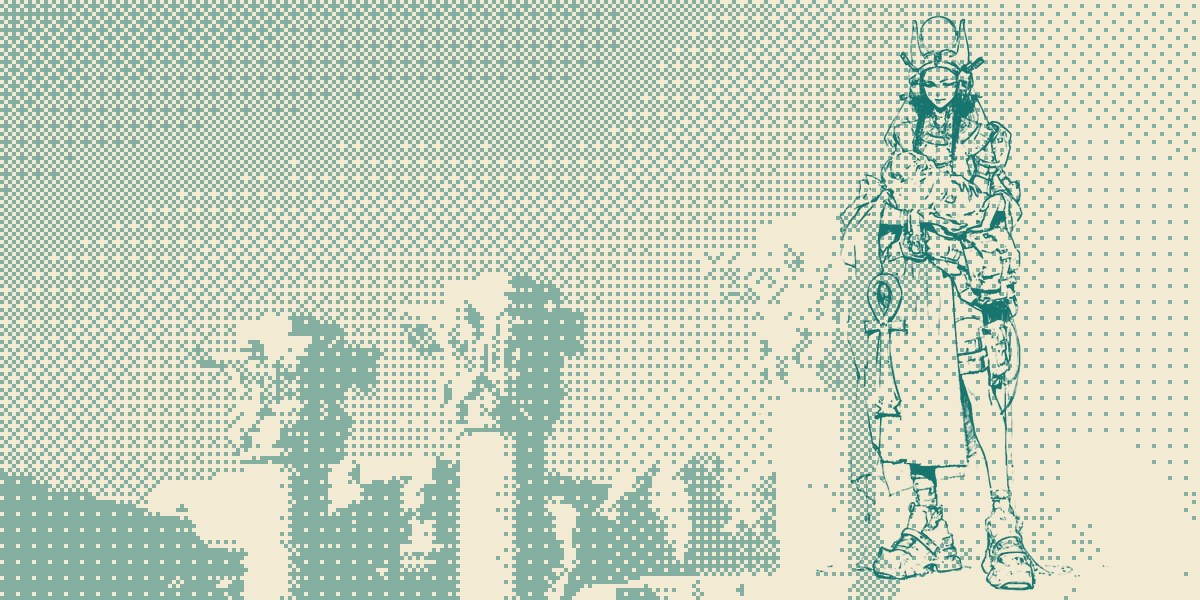
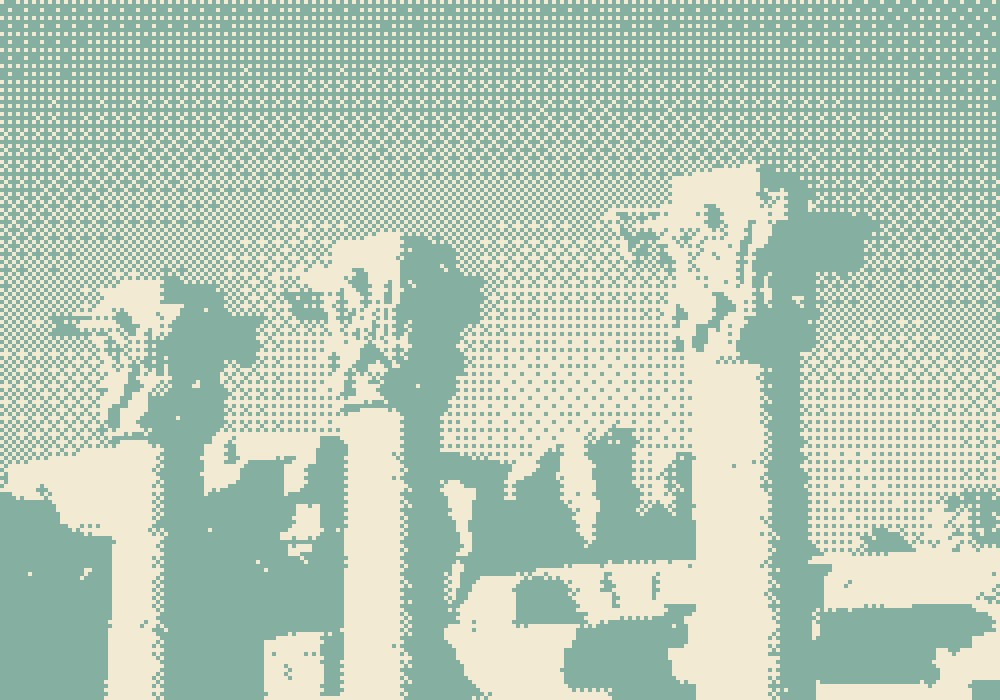
Strand rows: architecture-only dithered headers in strand palettes, research-row layout; characters saved for strand pages
Claude-Session: https://claude.ai/code/session_01AVabTRsKoHpHLheAooNiPc

diff --git a/herabio.tech/index.html b/herabio.tech/index.html
@@ -78,11 +78,12 @@ a:focus-visible,button:focus-visible,input:focus-visible{outline:2px solid var(-
 .strands-head h2{margin:0;font-family:var(--display);font-weight:400;font-size:clamp(22px,3vw,30px);letter-spacing:1px}
 .strands-head p{margin:0;color:var(--paper-dim);max-width:60ch}
 .cell .kicker,.research .kicker{font-size:10px;letter-spacing:2.5px;color:var(--paper-dim)}
-.ledger{display:grid;grid-template-columns:repeat(3,minmax(0,1fr));gap:24px}
+.ledger{display:grid;grid-template-columns:1fr;gap:24px}
 /* strand = card stacked over a frosted-glass plate; card pulls back to reveal it */
-.strand{display:grid;min-width:0;perspective:1200px;overflow:hidden;cursor:pointer;-webkit-tap-highlight-color:transparent}
+.strand{display:grid;min-width:0;perspective:1200px;overflow:hidden;position:relative;cursor:pointer;-webkit-tap-highlight-color:transparent}
 .strand>*{grid-area:1/1}
-.strand .glass{position:relative;overflow:hidden;border:1px solid rgba(238,237,232,.55);display:flex;flex-direction:column;justify-content:flex-start;padding:calc(18% + 26px) 20px 20px;isolation:isolate}
+.strand .glass{position:absolute;inset:0;overflow:hidden;border:1px solid rgba(238,237,232,.55);display:flex;flex-direction:column;justify-content:flex-start;padding:66px 32px 20px 42%;isolation:isolate}
+@media (max-width:820px){.strand .glass{padding:66px 20px 20px}}
 .strand .glass::before{content:"";position:absolute;inset:0;background:var(--pane) center/cover;filter:saturate(.7);transform:scale(1.06);z-index:-2}
 .strand .glass::after{content:"";position:absolute;inset:0;z-index:-1;
   background:
@@ -90,17 +91,17 @@ a:focus-visible,button:focus-visible,input:focus-visible{outline:2px solid var(-
     repeating-linear-gradient(0deg,rgba(255,255,255,.025) 0 1px,transparent 1px 3px),
     rgba(20,20,20,.5);
   -webkit-backdrop-filter:blur(14px) saturate(.8);backdrop-filter:blur(14px) saturate(.8)}
-.strand .glass .etch{color:rgba(238,237,232,.8);font-size:13px;line-height:20px;margin:0;
+.strand .glass .etch{color:rgba(238,237,232,.8);font-size:12px;line-height:18px;max-width:60ch;margin:0;
   text-shadow:0 -1px 0 rgba(0,0,0,.55),0 1px 0 rgba(255,255,255,.16);letter-spacing:.1px}
-.strand .glass .etch b{display:block;font-family:var(--display);font-weight:400;font-size:17px;letter-spacing:1px;margin-bottom:8px;color:rgba(238,237,232,.72)}
-.strand .glass .hint{position:absolute;bottom:14px;right:16px;font-size:10px;letter-spacing:2.5px;color:rgba(238,237,232,.45);text-shadow:0 -1px 0 rgba(0,0,0,.5)}
-.strand .cell{transform-origin:50% 100%;transition:transform .7s cubic-bezier(.2,.8,.2,1),box-shadow .7s;will-change:transform}
-.strand:hover .cell,.strand:focus-within .cell,.strand.open .cell{transform:translateY(-82%) rotateX(6deg);box-shadow:0 30px 50px -18px rgba(0,0,0,.85)}
+.strand .glass .etch b{display:block;font-family:var(--display);font-weight:400;font-size:16px;letter-spacing:1px;margin-bottom:6px;color:rgba(238,237,232,.72)}
+.strand .glass .hint{position:absolute;bottom:12px;right:16px;font-size:10px;letter-spacing:2.5px;color:rgba(238,237,232,.45);text-shadow:0 -1px 0 rgba(0,0,0,.5)}
+.strand .cell{transform-origin:50% 100%;height:100%;transition:transform .7s cubic-bezier(.2,.8,.2,1),box-shadow .7s;will-change:transform}
+.strand:hover .cell,.strand:focus-within .cell,.strand.open .cell{transform:translateY(-79%) rotateX(5deg);box-shadow:0 30px 50px -18px rgba(0,0,0,.85)}
 .strand .glass{transform:translateY(10px);opacity:.0;transition:transform .7s cubic-bezier(.2,.8,.2,1) .05s,opacity .5s .05s}
 .strand:hover .glass,.strand:focus-within .glass,.strand.open .glass{transform:none;opacity:1}
 @media (hover:none){.strand .cell{transition-duration:.5s}}
-.cell{border:1px solid var(--paper);padding:0;min-width:0;display:flex;flex-direction:column;background:var(--ink);position:relative;overflow:hidden}
-.cell .fig{height:180px;background-size:cover;background-position:center;border-bottom:1px solid var(--paper);filter:grayscale(1) contrast(1.1)}
+.cell{border:1px solid var(--paper);padding:0;min-width:0;display:grid;grid-template-columns:minmax(0,2fr) minmax(0,3fr);background:var(--ink);position:relative;overflow:hidden}
+.cell .fig{min-height:260px;background-size:cover;background-position:center;border-right:1px solid var(--paper);filter:grayscale(1) contrast(1.1)}
 .cell .fig.c1{background-image:url("img/strand_sakuya.jpg");filter:none}
 .cell .fig.c2{background-image:url("img/strand_shikhandi.jpg");filter:none}
 .cell .fig.c3{background-image:url("img/nike.jpg")}
@@ -113,10 +114,10 @@ a:focus-visible,button:focus-visible,input:focus-visible{outline:2px solid var(-
 .research p{margin:0;color:var(--paper-dim);max-width:62ch}
 .research ul{margin:4px 0 0;padding-left:18px;color:var(--paper-dim);display:flex;flex-direction:column;gap:8px;max-width:66ch}
 .research li b{color:var(--paper);font-weight:800}
-@media (max-width:820px){.research{grid-template-columns:1fr}.research .rfig{min-height:160px;border-right:0;border-bottom:1px solid var(--paper)}}
-.cell .body{padding:18px 20px 20px;display:flex;flex-direction:column;gap:10px;flex:1}
-.cell h2{margin:0;font-family:var(--display);font-weight:400;font-size:20px;line-height:26px;letter-spacing:1px}
-.cell p{margin:0;color:var(--paper-dim)}
+@media (max-width:820px){.research,.cell{grid-template-columns:1fr}.research .rfig,.cell .fig{min-height:160px;border-right:0;border-bottom:1px solid var(--paper)}}
+.cell .body{padding:28px 32px;display:flex;flex-direction:column;gap:12px}
+.cell h2{margin:0;font-family:var(--display);font-weight:400;font-size:clamp(22px,3vw,30px);letter-spacing:1px}
+.cell p{margin:0;color:var(--paper-dim);max-width:62ch}
 .cell .status,.research .status{display:flex;align-items:center;gap:8px;font-size:11px;letter-spacing:2px;margin-top:auto;padding-top:6px}
 .dot{width:8px;height:8px;border-radius:50%;background:var(--pom-bright);flex:none}
 
